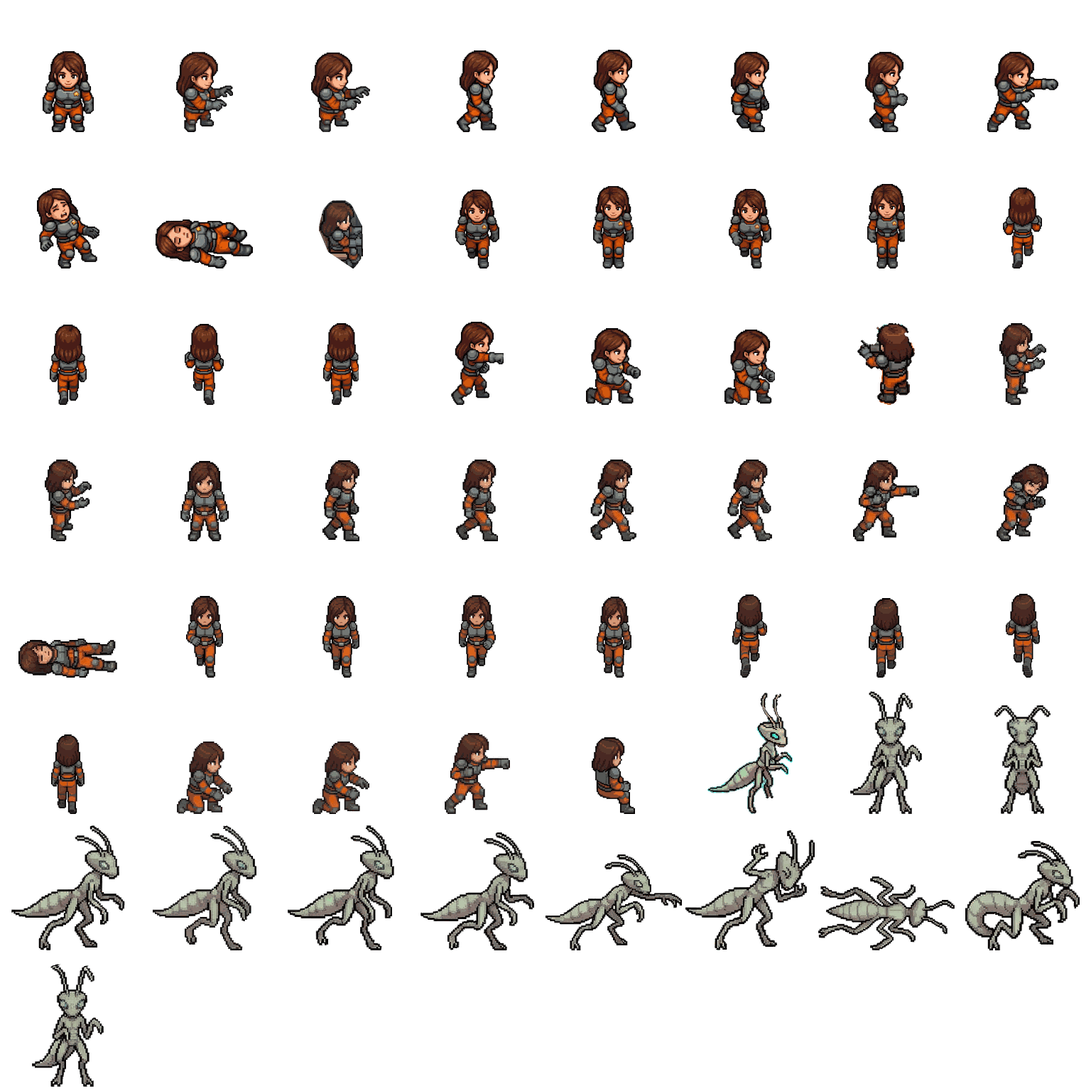
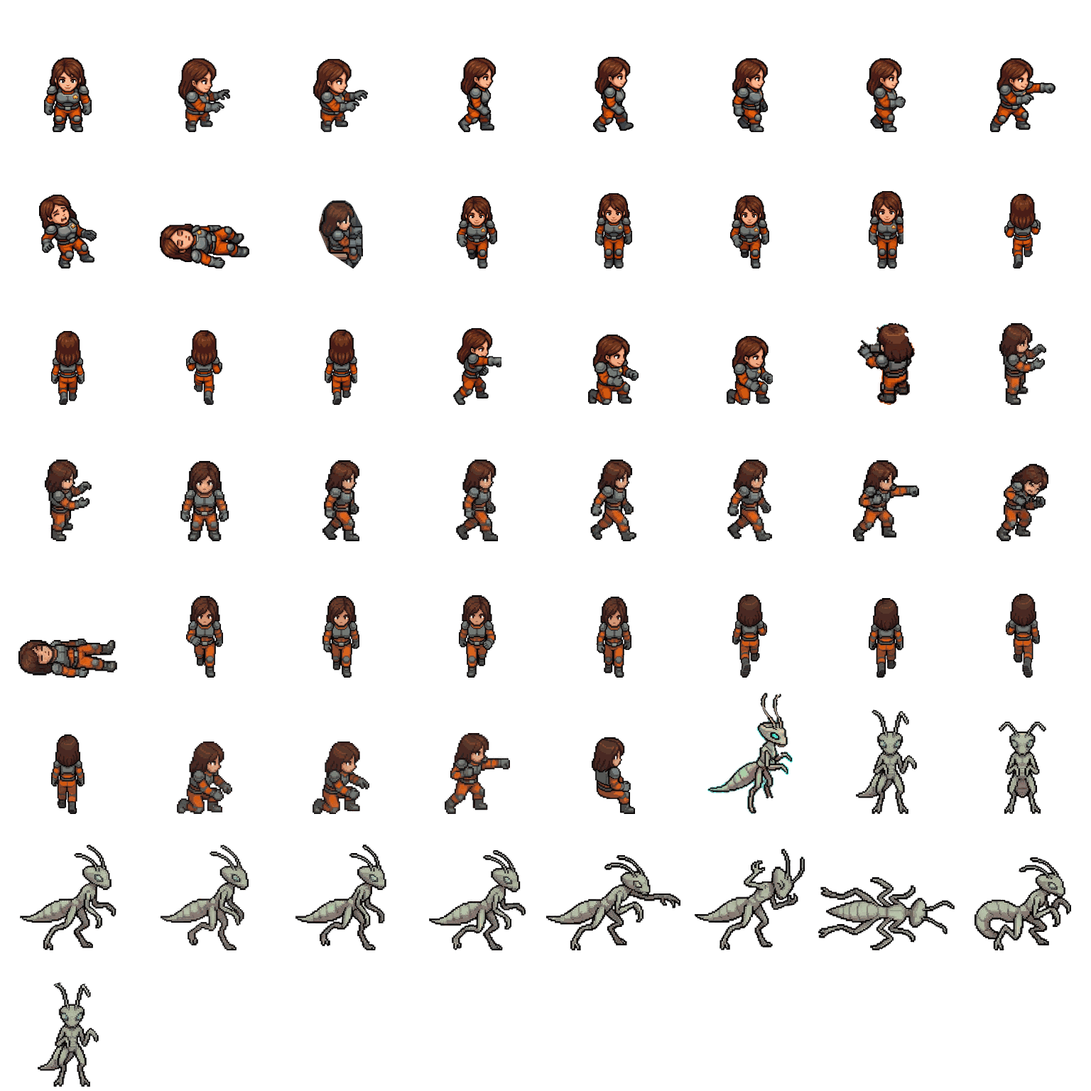
Game build 00ca104

diff --git a/index.html b/index.html
@@ -1397,6 +1397,14 @@ function update(dt){
   }
   if (!S.saidLow && S.you.hull > 0 && S.you.hull <= S.you.maxHull*0.3){ S.saidLow = true; barkAny("lowhull"); }
   if (S.you.sys.shields && S.you.layers === 0 && maxLayers(S.you) === 0 && S.t - S.saidShields > 25){ S.saidShields = S.t; barkAny("shieldsdown", c => c.on === "you"); }
+  // air running out where your crew stand: say so, and why, before anyone chokes (blind QA 2026-10-04: a whole crew
+  // suffocated on a ship with half its hull and nothing said why)
+  if (S.you.o2 && S.t - (S.saidAir || -99) > 20){
+    const low = S.you.crew.filter(c => c.hp > 0 && c.on === "you" && !SP(c).nobreath && (S.you.o2[c.room] ?? 100) < 35);
+    if (low.length){ S.saidAir = S.t; const ox = S.you.sys.oxygen, vented = Object.values(S.you.vent || {}).some(Boolean);
+      const why = vented ? "Close the vents (VENT)" : !ox ? "Get them to rooms with air" : eff(S.you, "oxygen") <= 0 ? (ox.dmg > 0 ? "OXYGEN is broken: send someone to repair it" : "Power OXYGEN on the left") : "Patch the breaches and keep OXYGEN powered";
+      setHint(`Air is running out where ${low.map(c => c.name).join(", ")} ${low.length > 1 ? "are" : "is"}. ${why}, or they will suffocate.`);
+      float(S.you, low[0].room, "LOW AIR", "#ff9bb0"); AUDIO.sfx("click"); } }
   clampPower(S.you); restorePower(S.you); clampPower(S.foe); autoPowerEnemy(S.foe);
   AUDIO.frame(S); // fire and breach loops, the low-hull alarm, the drive-ready chime, shields back up
   if (!S.over){
@@ -2701,7 +2709,7 @@ function frame(now){
     const fightNow = S && S.mode === "fight";
     if (STAGE.ok){ STAGE.resize(W, H); const ts = fightNow ? STAGE.tilt() : 1; if (Math.abs(ts - TS) > 1e-4){ TS = ts; layout(); } }
     const cineNow = STAGE.ok && fightNow && STAGE.inCine();
-    if (fightNow && !S.paused && !S.over && !cineNow) update(dt);
+    if (fightNow && !S.paused && !S.over && !cineNow) for (let k = DIAG.ff ? 8 : 1; k > 0 && !S.over; k--) update(dt);   // #debug fast-forward runs the fight 8x
     X.setTransform(DPR,0,0,DPR,0,0); X.clearRect(0,0,W,H);
     if (!STAGE.ok) drawNebula();
     const warp = S && S.warp > 0 ? S.warp : 0;
@@ -2876,10 +2884,13 @@ function buildDeck(){
 // the old fixed edge ran the vent hint under BOARD)
 function fitHint(){ const h = $("hint"), ar = document.querySelector(".actRow"); if (!h || !ar) return;
   if (!document.body.classList.contains("land") || !S || S.mode !== "fight" || !ar.offsetWidth){ if (h.style.right) h.style.right = ""; return; }
-  const box = stageRect(h.offsetParent || cv), a = stageRect(ar), r = Math.round(Math.max(8, box.left + box.width - a.left + 8)) + "px"; if (h.style.right !== r) h.style.right = r; }
+  // the hint ends left of the action buttons and, when there is one, left of the small ship's window and its name bar
+  // (a long briefing ran under the enemy's name, blind QA 2026-10-04)
+  const box = stageRect(h.offsetParent || cv), a = stageRect(ar), cvb = stageRect(cv), edge = Math.min(a.left, S.inset ? cvb.left + S.inset.x*cvb.width/W : Infinity),
+    r = Math.round(Math.max(8, box.left + box.width - edge + 8)) + "px"; if (h.style.right !== r) h.style.right = r; }
 function tickDeck(){
   if (!S || S.mode !== "fight") return;
-  { const ar = document.querySelector(".actRow"), k = (ar ? ar.offsetWidth : 0) + "," + W; if (k !== fitHint.k){ fitHint.k = k; fitHint(); } }
+  { const ar = document.querySelector(".actRow"), k = (ar ? ar.offsetWidth : 0) + "," + W + "," + (S.inset ? Math.round(S.inset.x) : ""); if (k !== fitHint.k){ fitHint.k = k; fitHint(); } }
   const you = S.you;
   you.weapons.forEach((w,i) => {
     const el = $("w"+i); if (!el) return;
@@ -2995,7 +3006,7 @@ function actJump(){ if (!S || S.over || S.you.ftl < 1) return;
 function showOffer(f, t){
   const el = $("offer"); if (!el) return;
   const what = [`${t.scrap} scrap`].concat(t.fuel ? [`${t.fuel} fuel`] : []).concat(t.missiles ? [`${t.missiles} missile${t.missiles > 1 ? "s" : ""}`] : []).join(", ");
-  $("offerText").textContent = `The ${f.name} signals surrender. They offer ${what} if you let them go. Fight on and you may take the wreck, or lose it if they run.`;
+  $("offerText").textContent = `The ${f.name} signals surrender. They offer ${what} if you let them go. ${f.flees ? "Fight on and they run: kill them before their drive spools (about 20 seconds) to take the wreck, or they get away with everything." : "Fight on and you can still take the wreck."}`;
   el.hidden = false; S.wasPausedOffer = S.paused; S.paused = true; tickDeck();
 }
 function closeOffer(){ const el = $("offer"); if (el) el.hidden = true; }
@@ -3701,8 +3712,56 @@ const RACE_ROW = {human: 0, tinker: 0, myrm: 1, basalt: 1, lumen: 2}, FRAME_COL 
 // drawn by the older atlas below. Frames: idle, walk1-4 (facing right; mirrored for left), walkd1-4 (toward the camera),
 // walku1-4 (away from it), op1-2 (op1s: a skin's side-view op1 where its op1 is a painted figure from another angle),
 // sit, link, fight + fight2 (a blow and its follow-through, alternating), hurt, down, repair + repair2 (kneeling at a panel).
-const CREW2 = {im: null, idx: null};
-(() => { const im = new Image(); im.onload = () => { fetch("art/crew_v2.json").then(r => r.ok ? r.json() : null).then(j => { if (!j || !j.skins) return; CREW2.im = im; CREW2.idx = j; SPRITES.clear(); PORTRAITS.clear(); if (S && S.mode === "fight") buildDeck(); }).catch(() => {}); }; im.src = "art/crew_v2.png"; })();
+// q: atlas pixels per crew_v2.json pixel. An iPad or a desktop draws the ship from the full-size painting
+// (hull_kestrel_hd.png), so it loads the crew at twice the pixels too (idx.hd, cut by tools/cut_crew.py): the crew then
+// have the painting's own pixel density instead of being blown up from the small cells (soft sprites on a sharp painting).
+const CREW2 = {im: null, idx: null, q: 1};
+(() => { const im = new Image(); im.onload = () => { fetch("art/crew_v2.json").then(r => r.ok ? r.json() : null).then(j => { if (!j || !j.skins) return; CREW2.im = im; CREW2.idx = j; CREW2.q = 1; SPRITES.clear(); PORTRAITS.clear(); if (S && S.mode === "fight") buildDeck();
+  if (j.hd && typeof UIK !== "undefined" && UIK > 1){ const hd = new Image(); hd.onload = () => { if (!hd.naturalWidth) return; CREW2.im = hd; CREW2.q = hd.naturalWidth/im.naturalWidth; SPRITES.clear(); }; hd.src = "art/" + j.hd; } }).catch(() => {}); }; im.src = "art/crew_v2.png"; })();
+// Grading (Michael, 2026-10-04: "the characters don't look fully a part of the scene"): the sheet frames were drawn in
+// their own Gemini chats, brighter, more contrasty and (the captain) more saturated than the same character as painted
+// in art-approved/01. Measured on the cut frames, figure pixels only (outline excluded), painted pose vs the sheet's:
+//   engineer  lightness .297 vs .32-.35, spread .111 vs .13-.14           -> exposure .93, contrast .85
+//   captain   lightness .318 vs .33-.37, spread .130 vs .155-.17, sat .34 vs .46-.50 -> .92, .82, .82
+//   Tesh      lightness .552 vs .50-.52, sat .22 vs .10-.12, painted greener -> exposure .97, colour as cut:
+//   her painted green and lightness are the shield room's cyan light on her (the game adds that itself); graded greener,
+//   blind QA saw her "a brighter mint green than the pale room" in the oxygen room
+// (part of the painted figures' cast is the room's light, which the game now adds on its own: crewLit below).
+// The painted poses are the painting's own pixels: never graded.
+const CREW_GRADE = {engineer: {exp: 0.93, con: 0.85, sat: 1, tint: [1, 1, 1]}, captain: {exp: 0.92, con: 0.82, sat: 0.82, tint: [1, 1, 1]},
+  tesh: {exp: 0.97, con: 1, sat: 1, tint: [1, 1, 1]}};
+// Edge softness (blind QA 2, 2026-10-04: on an iPad "the sprite stays sharp where the room is soft"). The approved painting
+// is soft-edged, and the game draws it softer still on a big screen (resampled into the deck texture, then by the stage).
+// Measured as fine-detail energy (|L - blur .7| / |L - blur 2.5|), figure against the room round it: the painting's own
+// crew read 1.08-1.11x their room (Tesh 1.25x); the sheet frames on a phone 0.96-1.11x (right); on an iPad 1.23-1.24x
+// (too crisp). So sheet frames from the 2x atlas get a gaussian of CREW_SOFT.hd atlas px (tools/qa/crew-blend.mjs re-measures).
+// 0.9 brought the iPad to 1.10-1.13x, but blind QA 3 still picked every iPad sprite as sharper than its room, so 1.3:
+// the phone's own figures (0.95-1.12x, judged painted) are the bar.
+const CREW_SOFT = {hd: 1.3, sd: 0}, CREW_RIM = 0;
+function crewSoften(cv, sig){
+  const w = cv.width, h = cv.height, x = cv.getContext("2d"), d = x.getImageData(0, 0, w, h), a = d.data, r = Math.ceil(sig*2.5), K = [];
+  let ks = 0; for (let i = -r; i <= r; i++){ const v = Math.exp(-i*i/(2*sig*sig)); K.push(v); ks += v; } for (let i = 0; i < K.length; i++) K[i] /= ks;
+  const f = new Float32Array(w*h*4), t = new Float32Array(w*h*4);
+  for (let p = 0; p < w*h; p++){ const al = a[p*4+3]/255; f[p*4] = a[p*4]*al; f[p*4+1] = a[p*4+1]*al; f[p*4+2] = a[p*4+2]*al; f[p*4+3] = a[p*4+3]; } // premultiplied
+  for (let y = 0; y < h; y++) for (let xx = 0; xx < w; xx++){ const o = (y*w + xx)*4; let c0 = 0, c1 = 0, c2 = 0, c3 = 0;
+    for (let i = -r; i <= r; i++){ const sx = Math.min(w - 1, Math.max(0, xx + i)), q = (y*w + sx)*4, k = K[i + r]; c0 += f[q]*k; c1 += f[q+1]*k; c2 += f[q+2]*k; c3 += f[q+3]*k; }
+    t[o] = c0; t[o+1] = c1; t[o+2] = c2; t[o+3] = c3; }
+  for (let y = 0; y < h; y++) for (let xx = 0; xx < w; xx++){ const o = (y*w + xx)*4; let c0 = 0, c1 = 0, c2 = 0, c3 = 0;
+    for (let i = -r; i <= r; i++){ const sy = Math.min(h - 1, Math.max(0, y + i)), q = (sy*w + xx)*4, k = K[i + r]; c0 += t[q]*k; c1 += t[q+1]*k; c2 += t[q+2]*k; c3 += t[q+3]*k; }
+    const al = c3/255; a[o] = al > 0 ? c0/al : 0; a[o+1] = al > 0 ? c1/al : 0; a[o+2] = al > 0 ? c2/al : 0; a[o+3] = c3; }
+  x.putImageData(d, 0, 0);
+}
+function crewGrade(cv, g){
+  const x = cv.getContext("2d"), d = x.getImageData(0, 0, cv.width, cv.height), a = d.data; let n = 0, sum = 0;
+  for (let i = 0; i < a.length; i += 4) if (a[i+3] > 200){ const L = (a[i]*0.299 + a[i+1]*0.587 + a[i+2]*0.114)/255; if (L >= 0.16){ sum += L; n++; } }
+  const mid = n ? sum/n : 0.35;
+  for (let i = 0; i < a.length; i += 4){ if (!a[i+3]) continue; let r = a[i]/255, gg = a[i+1]/255, b = a[i+2]/255; const L = r*0.299 + gg*0.587 + b*0.114;
+    if (L < 0.16){ const k = g.exp; a[i] = r*k*255; a[i+1] = gg*k*255; a[i+2] = b*k*255; continue; } // the outline keeps its weight
+    const L2 = (mid + (L - mid)*g.con)*g.exp, s = L > 1e-3 ? L2/L : 1; r *= s; gg *= s; b *= s; // exposure and contrast on lightness, hue kept
+    const m = r*0.299 + gg*0.587 + b*0.114; r = m + (r - m)*g.sat; gg = m + (gg - m)*g.sat; b = m + (b - m)*g.sat;
+    a[i] = Math.min(255, r*g.tint[0]*255); a[i+1] = Math.min(255, gg*g.tint[1]*255); a[i+2] = Math.min(255, b*g.tint[2]*255); }
+  x.putImageData(d, 0, 0);
+}
 const CREW2_FALLBACK = {walk1: ["walk1", "walk3"], walk2: ["walk2", "walk3", "walk1"], walk3: ["walk3", "walk1"], walk4: ["walk4", "walk2", "walk1"], fight: ["fight", "op1"], fight2: ["fight2", "fight", "op1"], work: ["repair", "op1"], repair2: ["repair2", "repair", "op1"], op1: ["op1"], op2: ["op2", "op1"], op1s: ["op1s", "op2", "op1"],
   walkd1: ["walkd1", "walk1"], walkd2: ["walkd2", "walk2", "walk1"], walkd3: ["walkd3", "walk3", "walk1"], walkd4: ["walkd4", "walk4", "walk1"],
   walku1: ["walku1", "walk1"], walku2: ["walku2", "walk2", "walk1"], walku3: ["walku3", "walk3", "walk1"], walku4: ["walku4", "walk4", "walk1"], sit: ["sit", "op1"], link: ["link", "op1"], down: ["down"], hurt: ["hurt"]};
@@ -3718,7 +3777,10 @@ function crewPaintedHere(c, frame, ship){ if (!crewPainted(c, frame)) return fal
 function crewSprite(c, frame){
   const f2 = crewFrame2(c, frame);
   if (f2){ const key = `v2|${f2[0]}|${f2[1]}`; if (SPRITES.has(key)) return SPRITES.get(key);
-    const r = f2[2], cv = document.createElement("canvas"); cv.width = cv.height = r[2]; cv.square = true; cv.getContext("2d").drawImage(CREW2.im, r[0], r[1], r[2], r[3], 0, 0, r[2], r[3]);
+    const q = CREW2.q || 1, r = f2[2].map(v => Math.round(v*q)), cv = document.createElement("canvas"); cv.width = cv.height = r[2]; cv.square = true; cv.getContext("2d").drawImage(CREW2.im, r[0], r[1], r[2], r[3], 0, 0, r[2], r[3]);
+    const painted = (CREW2.idx.skins[f2[0]].painted || []).includes(f2[1]), g = CREW_GRADE[f2[0]];
+    if (g && !painted) try { crewGrade(cv, g); } catch {} // (a canvas that can't be read stays as cut)
+    const soft = !painted && (q > 1 ? CREW_SOFT.hd : CREW_SOFT.sd); if (soft > 0) try { crewSoften(cv, soft); } catch {}
     SPRITES.set(key, cv); return cv; }
   if (CREW_ATLAS.complete && CREW_ATLAS.naturalWidth){
     const key = `atlas|${c.species}|${frame}`; if (SPRITES.has(key)) return SPRITES.get(key);
@@ -4160,12 +4222,85 @@ function whiteOf(spr){ let w = WHITE_SPR.get(spr); if (w) return w;
   g.drawImage(spr, 0, 0); g.globalCompositeOperation = "source-in"; g.fillStyle = "#fff"; g.fillRect(0, 0, w.width, w.height); WHITE_SPR.set(spr, w); return w; }
 const CREW_SHADOW = (() => { const c = document.createElement("canvas"); c.width = 48; c.height = 24; const g = c.getContext("2d"), r = g.createRadialGradient(24, 12, 1, 24, 12, 24);
   r.addColorStop(0, "rgba(0,0,0,.6)"); r.addColorStop(1, "rgba(0,0,0,0)"); g.setTransform(1, 0, 0, 0.5, 0, 0); g.fillStyle = r; g.fillRect(0, 0, 48, 48); return c; })();
+// ---- the crew in the painting (Michael, 2026-10-04: "The characters don't look fully a part of the scene", "It looks odd
+// and not pro"). The painting's crew share its light, its pixels and its floor; these give the game's crew the same.
+function blobFall(u){ return u >= 1 ? 0 : u < 0.4 ? 1 - u/0.4*0.5 : 0.5*(1 - (u - 0.4)/0.6); } // kitBlob's radial stops: 1, .5 at 0.4, 0 at the edge
+// the light at a point of a kit ship (its painting's px), as kitLightMap paints it on the floor there: the room's ambient
+// (dim when unpowered, red on alert), its ceiling lamp, its machine's light in the system's colour, fire. 0..1 per channel.
+function kitLightAt(ship, sh, id, hx, hy, t){
+  const b = sh.bbs[id]; if (!b) return null;
+  hx = clamp(hx, b[0], b[0] + b[2]); hy = clamp(hy, b[1], b[1] + b[3]); // (lights are clipped to the room: a head over the wall is lit as the room is)
+  const s = ship.sys[id], kt = sh.kit[id], hz = ship.hz && ship.hz[id], pa = sh.kd && sh.kd.painted, alert = kitAlert(ship), red = 0.5 + 0.5*Math.sin(t*6.3);
+  const pw = s && s.level ? (ship.you ? eff(ship, id) : cap(ship, id)) : 1, cons = id === "pilot" || id === "doors" || id === "sensors";
+  const off = s && s.level && (cons ? s.dmg >= s.level : pw <= 0);
+  const L = alert ? [(pa ? 170 : 120) + 40*red, (pa ? 80 : 44) - 10*red, (pa ? 86 : 50) - 10*red] : off ? (pa ? [96, 99, 112] : [34, 37, 48]) : (pa ? [206, 206, 210] : [58, 63, 80]);
+  const add = (rgb, a) => { for (let i = 0; i < 3; i++) L[i] += rgb[i]*a; };
+  const lr = Math.max(b[2], b[3])*0.7; add([112, 106, 96], (s && s.level && pw <= 0 && !cons ? 0.25 : 0.5)*blobFall(Math.hypot(hx - b[0] - b[2]/2, hy - b[1] - b[3]/2)/lr));
+  const lp = (ship._lp || {})[id] || 0, m = kt && kt.mach;
+  if (s && m && lp > 0.01) add(SYS_RGB[id] || [200, 200, 200], clamp(lp*1.15, 0, 1)*blobFall(Math.hypot(hx - m[0] - m[2]/2, hy - m[1] - m[3]/2)/(sh.cell*1.7)));
+  if (hz && hz.fire > 0) add([255, 130, 40], clamp((0.7 + 0.2*Math.sin(t*13 + b[0]))*(0.5 + hz.fire/200), 0, 1)*blobFall(Math.hypot(hx - b[0] - b[2]/2, hy - b[1] - b[3]*0.6)/(sh.cell*1.3)));
+  return L.map(v => clamp(v, 0, 255)/255);
+}
+// a crew member's light: the room's light at their left and right side (chest high) and the edge light they catch
+function crewLight(ship, sh, ca, c, sx, feet, Z, t, rim){
+  if (KIT_LIT.tier < 0) return null; // the bare painting (side-by-side checks)
+  const id = typeof crewRoomNow === "function" ? crewRoomNow(ship, c) : c.room, hx = (sx - ca.x)/ca.s, hy = (feet - Z*0.33 - ca.y)/ca.s, d = Z*0.2/ca.s;
+  if (KIT_LIT.tier === 0){ const s = ship.sys[id], off = s && s.level && (ship.you ? eff(ship, id) : cap(ship, id)) <= 0 && id !== "pilot"; return off ? {l: [0.6, 0.6, 0.62], r: [0.6, 0.6, 0.62]} : null; }
+  const l = kitLightAt(ship, sh, id, hx - d, hy, t), r = kitLightAt(ship, sh, id, hx + d, hy, t); if (!l || !r) return null;
+  const out = {l, r, rim: null}; if (!rim) return out;
+  // the edge light: the room's machine light when it is near and on (cyan by the shields, orange by the engines), else the lamp
+  const kt = sh.kit[id], m = kt && kt.mach, lp = (ship._lp || {})[id] || 0;
+  const mf = m && lp > 0.05 ? clamp(lp, 0, 1)*blobFall(Math.hypot(hx - m[0] - m[2]/2, hy - m[1] - m[3]/2)/(sh.cell*1.9)) : 0;
+  out.rim = mf > 0.08 ? {rgb: SYS_RGB[id] || [220, 220, 220], a: 0.1 + 0.3*mf} : {rgb: [255, 236, 205], a: 0.12*Math.max(l[0], r[0])};
+  return out;
+}
+// the figure's lit edge (one art pixel inside its outline, on the side the light comes from: top left on screen, so top
+// right in a sprite drawn mirrored), white; tinted per light colour and cached
+const RIM = new WeakMap();
+function crewRimMask(spr, left){
+  let e = RIM.get(spr); if (!e) RIM.set(spr, e = {tint: new Map()});
+  const k = left ? "l" : "r"; if (e[k]) return e[k];
+  const w = spr.width, h = spr.height, d = spr.getContext("2d").getImageData(0, 0, w, h).data, o = document.createElement("canvas"); o.width = w; o.height = h;
+  const ox = o.getContext("2d"), od = ox.createImageData(w, h), A = od.data, st = Math.max(2, Math.round(w/80)), dx = left ? -st : st;
+  const al = (x, y) => x < 0 || y < 0 || x >= w || y >= h ? 0 : d[(y*w + x)*4 + 3];
+  for (let y = 0; y < h; y++) for (let x = 0; x < w; x++){ const i = (y*w + x)*4; if (d[i+3] < 200) continue;
+    if ((d[i]*0.299 + d[i+1]*0.587 + d[i+2]*0.114)/255 < 0.16) continue; // the outline stays dark
+    const up = al(x, y - 2*st) < 90, side = al(x + 2*dx, y) < 90, diag = al(x + 2*dx, y - 2*st) < 90;
+    const v = up && side ? 1 : diag ? 0.8 : up ? 0.6 : side ? 0.45 : 0; if (!v) continue;
+    A[i] = A[i+1] = A[i+2] = 255; A[i+3] = Math.round(255*v); }
+  ox.putImageData(od, 0, 0); return e[k] = o;
+}
+function crewRimTint(spr, left, rgb){
+  const e = RIM.get(spr) || (crewRimMask(spr, left), RIM.get(spr)), key = (left ? "l" : "r") + rgb.join(","); let c = e.tint.get(key); if (c) return c;
+  const m = crewRimMask(spr, left); c = document.createElement("canvas"); c.width = m.width; c.height = m.height; const x = c.getContext("2d");
+  x.drawImage(m, 0, 0); x.globalCompositeOperation = "source-in"; x.fillStyle = `rgb(${rgb.join(",")})`; x.fillRect(0, 0, c.width, c.height); e.tint.set(key, c); return c;
+}
+// the figure under its light: multiplied by the room's light from its left side to its right (as the floor under it is
+// by the light map), then its lit edge added. One scratch canvas, drawn from at once.
+const CREW_LIT = {c: null};
+function crewLit(spr, L, flip){
+  const c = CREW_LIT.c || (CREW_LIT.c = document.createElement("canvas"));
+  if (c.width !== spr.width || c.height !== spr.height){ c.width = spr.width; c.height = spr.height; }
+  const x = c.getContext("2d"), [a, b] = flip ? [L.r, L.l] : [L.l, L.r], css = v => `rgb(${Math.round(v[0]*255)},${Math.round(v[1]*255)},${Math.round(v[2]*255)})`;
+  x.globalAlpha = 1; x.globalCompositeOperation = "source-over"; x.clearRect(0, 0, c.width, c.height); x.drawImage(spr, 0, 0);
+  x.globalCompositeOperation = "multiply"; const g = x.createLinearGradient(c.width*0.3, 0, c.width*0.7, 0); g.addColorStop(0, css(a)); g.addColorStop(1, css(b)); x.fillStyle = g; x.fillRect(0, 0, c.width, c.height);
+  x.globalCompositeOperation = "destination-in"; x.drawImage(spr, 0, 0);
+  if (L.rim && L.rim.a > 0.02){ x.globalCompositeOperation = "lighter"; x.globalAlpha = Math.min(1, L.rim.a); x.drawImage(crewRimTint(spr, !flip, L.rim.rgb), 0, 0); }
+  x.globalCompositeOperation = "source-over"; x.globalAlpha = 1; return c;
+}
+// where a figure meets the floor: the span of its lowest rows (cell fractions)
+const FOOT = new WeakMap();
+function crewFoot(spr){ let f = FOOT.get(spr); if (f) return f;
+  const w = spr.width, h = spr.height, d = spr.getContext("2d").getImageData(0, 0, w, h).data; let bot = -1;
+  for (let y = h - 1; y >= 0 && bot < 0; y--) for (let x = 0; x < w; x++) if (d[(y*w + x)*4 + 3] > 120){ bot = y; break; }
+  let x0 = w, x1 = -1; for (let y = Math.max(0, bot - Math.round(h*0.08)); y <= bot; y++) for (let x = 0; x < w; x++) if (d[(y*w + x)*4 + 3] > 120){ if (x < x0) x0 = x; if (x > x1) x1 = x; }
+  f = x1 < 0 ? {c: 0.5, w: 0.2} : {c: (x0 + x1 + 1)/2/w, w: (x1 - x0 + 1)/w}; FOOT.set(spr, f); return f; }
 function drawCrew(ship, g){
   const t = performance.now()/1000, now = performance.now();
   const live = S && !S.paused && !S.over, sh = ship.cut && ship.cut.kit && SHAPED[ship.cut.art], ca0 = sh && cutArt(ship);
   const cs = sh && sh.kd.crew && ca0 ? sh.kd.crew*ca0.s : ship.cut ? g.cell : g.cell*0.63; // one crew tile on screen (a painted ship sets its own)
-  for (const c of allCrew()){
-    if (c.on !== ship.key || c.gx == null) continue;
+  // back to front (feet higher on the screen first), so whoever stands nearer the camera overlaps whoever is behind them
+  for (const c of allCrew().filter(c => c.on === ship.key && c.gx != null).sort((a, b) => a.gy - b.gy)){
     if (c._fight !== S){ c._fight = S; c._tpAt = S.t > 0.5 && c.hp > 0 ? now : 0; c._deadAt = c.hp > 0 ? 0 : -1e9; } // new aboard mid-fight: they beamed in
     if (c.hp <= 0 && !c._deadAt) c._deadAt = now;
     if (c.hp <= 0 && now - c._deadAt > 1600) continue;
@@ -4208,13 +4343,6 @@ function drawCrew(ship, g){
     else if (!dead && c.act === "man" && sh){ const kt = sh.kit[c.room]; if (kt && kt.gc){ const dx = (kt.gc[0] - c.gx)*(ship.you ? 1 : -1); if (Math.abs(dx) > 0.2){ ox += Math.sign(dx)*cs*0.07; flip = dx < 0; } oy += Math.sin(t*9 + c.seed)*cs*0.006; } }
     else if (!dead && c.act === "idle" && Math.sin(t*0.7 + (c.seed % 13)) > 0.93) flip = !flip; // a glance about
     const breath = !dead && (st || c.act === "idle" || c.act === "man") ? 1 + 0.012*Math.sin(t*2.3 + seed*6.3) : 1; // the operating loop: they breathe, they don't freeze
-    // soft shadow, away from the room's light on a kit ship
-    const so = sh ? kitShadow(ship, c, cs, p) : [cs*0.06, cs*0.05], lift = Math.max(0, -oy/cs);
-    if (!asPainted){ X.save(); X.globalAlpha = dead ? Math.max(0, 1 - (now - c._deadAt)/1600) : 1 - lift*4; // (a painted figure brings its own shadow)
-      X.drawImage(CREW_SHADOW, p.x + so[0] - cs*0.3, feet + so[1] - cs*0.12, cs*0.6*(1 - lift*2), cs*0.24); X.restore(); }
-    if (!mine && !dead){ X.strokeStyle = "rgba(255,90,70,.85)"; X.lineWidth = 2; X.beginPath(); X.ellipse(p.x, feet - cs*0.02, cs*0.3, cs*0.11, 0, 0, 6.283); X.stroke(); } // their crew: a red ring at the feet
-    if (SP(c).powers && !dead){ const gl = X.createRadialGradient(p.x, feet - cs*0.5, 0, p.x, feet - cs*0.5, cs*0.7); gl.addColorStop(0, "rgba(255,240,170,.4)"); gl.addColorStop(1, "rgba(255,240,170,0)"); X.fillStyle = gl; X.fillRect(p.x - cs, feet - cs*1.2, cs*2, cs*1.4); }
-    if (mine && S.selC === S.you.crew.indexOf(c)){ X.strokeStyle = "#ffc857"; X.lineWidth = 2; X.beginPath(); X.ellipse(p.x, feet - cs*0.02, cs*0.34, cs*0.12, 0, 0, 6.283); X.stroke(); }
     // walking up or down the screen: the toward-camera / away frames (with some give, so a diagonal doesn't flicker between views)
     if (c.act === "walk"){ const vy = Math.sin(c.face || 0), vx = Math.abs(Math.cos(c.face || 0)); c._vert = c._vert ? (Math.abs(vy) > vx*0.8 ? (vy > 0 ? "d" : "u") : "") : (Math.abs(vy) > vx*1.25 ? (vy > 0 ? "d" : "u") : ""); }
     const wv = v2 && c._vert && crewHas(c, "walk" + c._vert + "1") ? "walk" + c._vert : "walk";
@@ -4222,34 +4350,62 @@ function drawCrew(ship, g){
     const frame = dead ? (crewHas(c, "down") ? "down" : "idle") : hurt ? "hurt" : foe ? (strike ? ((c._blows || 0) % 2 === 0 ? "fight2" : "fight") : "idle") : opF || (c.act === "walk" ? walkF : crewFrame(c)); // a fighter strikes in the lunge, stands guard between
     const spr = crewSprite(c, frame);
     c._frame = frame; c._flip = flip; // (read by the frame-strip QA)
+    const sitting = !dead && !asPainted && opF === "sit" && crewHas(c, "sit"); // seated, seen from above and behind, facing the way the seat faces (as the painted captain sits)
+    const seatedNoFrame = !dead && !asPainted && opF === "sit" && !crewHas(c, "sit") && spr.square; // (an enemy's: sunk into the painted seat)
+    const dflip = asPainted ? false : sitting ? Math.cos(st.face*Math.PI/180) < -0.2 : flip; // how the sprite is drawn
+    // grounded (docs/LIGHTING.md 2.3): a contact shadow as wide as what stands on the floor, tight and dark at the feet, and
+    // a softer one cast down and to the right (the light is top left; away from a lit machine in its room). A painted
+    // figure at its own station brings its own shadow from the painting.
+    const so = sh ? kitShadow(ship, c, cs, p) : [cs*0.06, cs*0.05], lift = Math.max(0, -oy/cs);
+    if (!asPainted && !sitting && !seatedNoFrame && spr.square){ const fp = crewFoot(spr), fw = Math.max(Z*0.12, fp.w*Z*1.08)*(1 - lift*2), fx = p.x + ox + (fp.c - 0.5)*Z*(dflip ? -1 : 1);
+      X.save(); X.globalAlpha = (dead ? Math.max(0, 1 - (now - c._deadAt)/1600) : 1)*Math.max(0, 1 - lift*4);
+      X.globalAlpha *= 0.6; X.drawImage(CREW_SHADOW, fx + so[0]*0.6 - fw*0.62, feet + so[1]*0.6 - fw*0.2, fw*1.24, fw*0.4); // cast
+      X.globalAlpha /= 0.6; X.drawImage(CREW_SHADOW, fx - fw*0.5, feet - fw*0.13, fw, fw*0.26); X.restore(); } // contact
+    if (!mine && !dead){ X.strokeStyle = "rgba(255,90,70,.85)"; X.lineWidth = 2; X.beginPath(); X.ellipse(p.x, feet - cs*0.02, cs*0.3, cs*0.11, 0, 0, 6.283); X.stroke(); } // their crew: a red ring at the feet
+    if (SP(c).powers && !dead){ const gl = X.createRadialGradient(p.x, feet - cs*0.5, 0, p.x, feet - cs*0.5, cs*0.7); gl.addColorStop(0, "rgba(255,240,170,.4)"); gl.addColorStop(1, "rgba(255,240,170,0)"); X.fillStyle = gl; X.fillRect(p.x - cs, feet - cs*1.2, cs*2, cs*1.4); }
+    if (mine && S.selC === S.you.crew.indexOf(c)){ X.strokeStyle = "#ffc857"; X.lineWidth = 2; X.beginPath(); X.ellipse(p.x, feet - cs*0.02, cs*0.34, cs*0.12, 0, 0, 6.283); X.stroke(); }
+    // turning, changing what they do, or a console's two frames ease into each other (no hard pop); walk, fight and repair
+    // frames are cycles and stay crisp
+    const fam = frame.replace(/^walk[du]?\d$/, "walk").replace(/^op(1s|\d)$/, "op").replace(/^(fight2?|repair2?)$/, "$1").replace(/2$/, "");
+    const was = c._drawn, cyc_ = fam === "walk" || fam === "fight" || fam === "repair";
+    if (was && !dead && (was.fam !== fam || (!cyc_ && (was.spr !== spr || was.flip !== dflip)))) c._xf = {spr: was.spr, flip: was.flip, at: now};
+    c._drawn = {spr, fam, flip: dflip};
     X.save(); X.imageSmoothingEnabled = true; X.imageSmoothingQuality = "high"; // the 128 px figures are drawn smaller: smooth, not jagged
-    if (c.grief > 0) X.globalAlpha = 0.8;
+    const ga = c.grief > 0 ? 0.8 : 1;
     const tp = c._tpAt ? (now - c._tpAt)/450 : 1; // beaming in: a light column, the figure revealed top down
     if (tp < 1){ X.save(); X.globalCompositeOperation = "lighter"; const hgt = Math.sin(tp*Math.PI)*cs*1.3; X.fillStyle = `rgba(150,230,255,${0.75*Math.sin(tp*Math.PI)})`; X.fillRect(p.x - cs*0.22, feet - hgt, cs*0.44, hgt); X.restore();
       X.beginPath(); X.rect(p.x - Z, feet - Z*1.1, Z*2, Z*1.1*tp + 1); X.clip(); }
-    if (dead){ const k = Math.min(1, (now - c._deadAt)/300); X.globalAlpha = Math.max(0, 1 - Math.max(0, now - c._deadAt - 700)/900);
-      if (crewHas(c, "down")){ X.translate(p.x, feet); if (flip) X.scale(-1, 1); X.drawImage(spr, -Z/2, -Z*0.97, Z, Z); } // the sheet's own fall
-      else { X.translate(p.x, feet - cs*0.1); X.rotate((flip ? -1 : 1)*k*Math.PI/2); X.translate(0, -Z*0.45); if (flip) X.scale(-1, 1); X.drawImage(spr, -Z/2, -Z*0.52, Z, Z); } }
-    else if (asPainted){ X.translate(p.x, feet); X.scale(1, breath); X.drawImage(spr, -Z/2, -Z*0.97, Z, Z); }
-    else if (opF === "sit" && crewHas(c, "sit")){ X.translate(p.x, feet); if (Math.cos(st.face*Math.PI/180) < -0.2) X.scale(-1, 1); X.scale(1, breath); X.drawImage(spr, -Z/2, -Z*0.97, Z, Z); } // seated, seen from above and behind, facing the way the seat faces (as the painted captain sits)
-    else if (opF === "sit" && spr.square){ // seated, for a figure with no sit frame (an enemy's): down in the painted seat, the seat point at the
-      // hips, the legs out of sight below them, facing the way the seat faces (the raider's pilot, as in art-approved/08)
-      X.beginPath(); X.rect(p.x - Z, feet - Z*1.2, Z*2, Z*1.2); X.clip();
-      X.translate(p.x, feet + Z*0.38); if (flip) X.scale(-1, 1); X.scale(1, breath); X.drawImage(spr, -Z/2, -Z*0.97, Z, Z); }
-    else if (spr.square){ X.translate(p.x + ox, feet + oy); if (flip) X.scale(-1, 1); X.scale(1, breath); X.drawImage(spr, -Z/2, -Z*0.97, Z, Z);
+    // in the room's light, as the floor under them is (crewLight / crewLit): a painted figure gets the same light as the
+    // painting round it, so the two stay as painted. (The edge light, CREW_RIM, is off: the painting's crew have none, and
+    // blind QA 3 read it as a halo: "a cyan rim", "a green fringe along the hair", "light pixels round the gloves".)
+    const LT = spr.square && sh && ca0 ? crewLight(ship, sh, ca0, c, p.x + ox, feet, Z, t, !asPainted && CREW_RIM > 0) : null;
+    const put = (s0, fl, a) => { X.globalAlpha = a; X.drawImage(LT ? crewLit(s0, LT, fl) : s0, -Z/2, -Z*0.97, Z, Z); };
+    if (dead){ const k = Math.min(1, (now - c._deadAt)/300), a = ga*Math.max(0, 1 - Math.max(0, now - c._deadAt - 700)/900);
+      if (crewHas(c, "down")){ X.translate(p.x, feet); if (flip) X.scale(-1, 1); put(spr, flip, a); } // the sheet's own fall
+      else { X.translate(p.x, feet - cs*0.1); X.rotate((flip ? -1 : 1)*k*Math.PI/2); X.translate(0, -Z*0.45); if (flip) X.scale(-1, 1); X.globalAlpha = a; X.drawImage(spr, -Z/2, -Z*0.52, Z, Z); } }
+    else if (spr.square){ const still = asPainted || sitting || seatedNoFrame;
+      // seated, for a figure with no sit frame (an enemy's): down in the painted seat, the seat point at the hips, the legs
+      // out of sight below them, facing the way the seat faces (the raider's pilot, as in art-approved/08)
+      if (seatedNoFrame){ X.beginPath(); X.rect(p.x - Z, feet - Z*1.2, Z*2, Z*1.2); X.clip(); X.translate(0, Z*0.38); }
+      X.translate(p.x + (still ? 0 : ox), feet + (still ? 0 : oy)); if (dflip) X.scale(-1, 1); X.scale(1, breath);
+      put(spr, dflip, ga);
+      const xf = c._xf, xk = xf ? (now - xf.at)/160 : 1;
+      if (xf && xk < 1){ X.save(); if (xf.flip !== dflip) X.scale(-1, 1); put(xf.spr, xf.flip, ga*(1 - xk)); X.restore(); } else c._xf = null;
       if (c._flashAt && now - c._flashAt < 90){ X.globalAlpha = 0.35; X.drawImage(whiteOf(spr), -Z/2, -Z*0.97, Z, Z); } }
-    else { const w = cs*0.7, hh = cs*0.92; X.translate(p.x + ox, feet + oy); if (flip) X.scale(-1, 1); X.drawImage(spr, -w/2, -hh, w, hh);
+    else { const w = cs*0.7, hh = cs*0.92; X.globalAlpha = ga; X.translate(p.x + ox, feet + oy); if (flip) X.scale(-1, 1); X.drawImage(spr, -w/2, -hh, w, hh);
       if (c._flashAt && now - c._flashAt < 90){ X.globalAlpha = 0.35; X.drawImage(whiteOf(spr), -w/2, -hh, w, hh); } }
     X.restore();
     if (dead) continue;
     if (c.mindLink && c.act === "man" && sh && (opF === "link" || (opF && opF.startsWith("op")))){ const kt = sh.kit[c.room], ca = cutArt(ship); // the queen works the console by mind: antennae aglow, a violet thread to it
       const tip = spriteTips(spr), pulse = 0.6 + 0.3*Math.sin(t*4 + c.seed), hx = p.x + (tip.x - 0.5)*Z, hy = feet - (0.97 - tip.y)*Z;
       X.save(); X.globalCompositeOperation = "lighter";
-      for (const ax of [tip.x0, tip.x1]){ const gx = p.x + (ax - 0.5)*Z, r = cs*0.16*(0.8 + 0.3*pulse), gl = X.createRadialGradient(gx, hy, 0, gx, hy, r);
-        gl.addColorStop(0, `rgba(225,190,255,${0.8*pulse})`); gl.addColorStop(1, "rgba(200,150,255,0)"); X.fillStyle = gl; X.fillRect(gx - r, hy - r, r*2, r*2); }
+      for (const ax of [tip.x0, tip.x1]){ const gx = p.x + (ax - 0.5)*Z, r = cs*0.11*(0.8 + 0.3*pulse), gl = X.createRadialGradient(gx, hy, 0, gx, hy, r);
+        gl.addColorStop(0, `rgba(225,190,255,${0.3*pulse})`); gl.addColorStop(1, "rgba(200,150,255,0)"); X.fillStyle = gl; X.fillRect(gx - r, hy - r, r*2, r*2); }
       if (kt && kt.mach && ca){ const mx = ca.x + (kt.mach[0] + kt.mach[2]/2)*ca.s, my = ca.y + (kt.mach[1] + kt.mach[3]/2)*ca.s;
-        X.strokeStyle = `rgba(200,150,255,${pulse})`; X.lineWidth = Math.max(1.5, cs*0.05); X.setLineDash([cs*0.06, cs*0.05]); X.lineDashOffset = -t*cs*0.3;
-        X.beginPath(); X.moveTo(hx, hy); X.quadraticCurveTo((hx + mx)/2, Math.min(hy, my) - cs*0.35, mx, my); X.stroke(); }
+        // a faint thread with soft beads running along it (blind QA, 2026-10-04: square dashes read as pasted-on squares)
+        const arc = () => { X.beginPath(); X.moveTo(hx, hy); X.quadraticCurveTo((hx + mx)/2, Math.min(hy, my) - cs*0.35, mx, my); };
+        X.lineCap = "round"; X.strokeStyle = `rgba(200,150,255,${0.12*pulse})`; X.lineWidth = Math.max(1, cs*0.02); arc(); X.stroke();
+        X.strokeStyle = `rgba(215,175,255,${0.4*pulse})`; X.lineWidth = Math.max(1, cs*0.026); X.setLineDash([0.01, cs*0.09]); X.lineDashOffset = -t*cs*0.3; arc(); X.stroke(); }
       X.restore(); }
     const bw = cs*0.5, by = feet + 2; // health shows on the hurt and the fighting
     if (c.hp < c.maxHp || c.act === "fight"){ X.fillStyle = "#26324a"; X.fillRect(p.x - bw/2, by, bw, 2.5);
@@ -4402,7 +4558,8 @@ function buildKitPainted(ship, kd, hs, R){
   const cw = c.width, al = x.getImageData(0, 0, cw, c.height).data, rowR = new Float32Array(h);
   for (let yy = 0; yy < h; yy++){ const row = Math.min(c.height - 1, Math.floor(yy*q)); let r = -1; for (let xx = cw - 1; xx >= 0; xx--) if (al[(row*cw + xx)*4 + 3] > 60){ r = xx/q; break; } rowR[yy] = r; }
   const hatches = (R.hatches || []).filter(t => polys[lid[t.a]] && polys[lid[t.b]]).map(t => ({a: lid[t.a], b: lid[t.b], x: fx(t.x)}));
-  return {c, w, h, q, ready: true, rooms, paths, bbs, kit, cell, hb, doors, rowR, polys, hatches, kd: {painted: true, crew: kd.crew, tile, flip, w, cell}, nest: R.nest};
+  const blocks = (R.blocks || []).map(([bx, by, bw, bh]) => [flip ? w - bx - bw : bx, by, bw, bh]); // painted furniture crew never stand in
+  return {c, w, h, q, ready: true, rooms, paths, bbs, kit, cell, hb, doors, rowR, polys, hatches, blocks, kd: {painted: true, crew: kd.crew, tile, flip, w, cell}, nest: R.nest};
 }
 // the station a crew member is working at: whoever holds it (src/crewnav.js navHolder, the first crew member headed
 // there who can work it), once they have walked onto its spot and stopped (idle at their post when a fight opens paused)
@@ -4502,8 +4659,8 @@ function buildKit(ship, kd, hs, dm){
    over the deck: each room has a dark ambient, a ceiling lamp, its machine's light in the system's colour
    (pulsing with the machine, scaled by power, dropping out when damaged) and fire light, all clipped to the
    room so no light leaks through walls. A red-alert ambient pulses when the hull is low or a system is
-   broken. Then a faint additive bloom over lit machines. Crew are drawn after, unlit, so they stay readable;
-   their shadows fall away from their room's light. Quality drops a tier on its own if frames run slow. ---- */
+   broken. Then a faint additive bloom over lit machines. Crew are drawn after, under the same light (crewart.js
+   kitLightAt / crewLit: the light map's value where they stand), with their shadows falling away from their room's light. Quality drops a tier on its own if frames run slow. ---- */
 const KIT_LIT = {tier: 2, ema: 0, slowT: 0};
 const SYS_RGB = {shields:[56,189,248], engines:[251,146,60], weapons:[255,176,80], oxygen:[70,220,200], medbay:[90,235,140], pilot:[120,190,255], sensors:[110,215,255], doors:[255,200,90], tele:[190,140,255], cloak:[160,140,255], drones:[255,200,90], lock:[255,80,100]};
 const KIT_BLOBS = {};
@@ -4687,7 +4844,8 @@ function navFromPainted(ship, sh, key){
       station: st ? {x: st.x*k, y: st.y*k, face: st.face, pose: st.pose} : null}; }
   const doors = (sh.doors || []).map((d, i) => ({a: d.a, b: d.b, vert: d.vert, rect: d.rect.map(v => v*k), src: i}));
   const hatches = (sh.hatches || []).map(h => ({a: h.a, b: h.b, x: h.x*k}));
-  return navBuild({key, painted: true, rooms, doors, hatches, margin: 0.12, step: 0.5, spot: 1.0, fight: 0.55});
+  const blocks = (sh.blocks || []).map(([bx, by, bw, bh]) => [bx*k, by*k, (bx + bw)*k, (by + bh)*k]); // furniture: nobody stands on a console
+  return navBuild({key, painted: true, rooms, doors, hatches, blocks, margin: 0.12, step: 0.5, spot: 1.0, fight: 0.55});
 }
 // a grid ship: its rooms are the grid rects, its doors the middle of every shared wall (crewGraph's rule)
 function navFromGrid(ship, key){
@@ -4721,7 +4879,7 @@ function navSees(nav, R, a, b){
 // ---- the graph
 function navBuild(spec){
   const nav = {key: spec.key, painted: spec.painted, m: spec.margin, fight: spec.fight, rooms: {}, nodes: [], adj: [], doors: [], hatches: [], warn: [],
-    block: spec.doors.map(d => [d.rect[0] - 0.05, d.rect[1] - 0.05, d.rect[0] + d.rect[2] + 0.05, d.rect[1] + d.rect[3] + 0.05])};
+    block: spec.doors.map(d => [d.rect[0] - 0.05, d.rect[1] - 0.05, d.rect[0] + d.rect[2] + 0.05, d.rect[1] + d.rect[3] + 0.05]).concat(spec.blocks || [])};
   const addNode = (room, x, y, kind, extra) => { const n = {i: nav.nodes.length, room, x, y, kind, ...(extra || {})}; nav.nodes.push(n); nav.adj.push([]); nav.rooms[room].nodes.push(n.i); return n; };
   const link = (a, b, w, extra) => { nav.adj[a.i].push({to: b.i, w, ...(extra || {})}); nav.adj[b.i].push({to: a.i, w, ...(extra || {})}); };
   for (const [id, r] of Object.entries(spec.rooms)){ const R = nav.rooms[id] = {id, poly: r.poly, walk: r.walk, station: r.station, nodes: [], spots: []};
@@ -5008,7 +5166,7 @@ function buildMapDeck(){
   if (!n) card = `<b>SECTOR ${R.sector} OF ${SECTORS}${R.arc ? " · " + esc(R.arc.sectors[R.sector-1].name.toUpperCase()) : ""}</b><span>Tap a beacon to scan it. Every jump costs 1 fuel and lets ${esc(threatName())} close in. Reach the green EXIT beacon.${hunted ? " Your hull reads weak on their scopes: hunters will come looking." : ""}</span>`;
   else if (n.id === R.pos) card = `<b>YOU ARE HERE · ${esc(planetOf(n.seed).toUpperCase())}</b><span>${n.probed ? "You've already probed this world." : "Send a probe down and see what the world gives you. Free, and once per beacon."}</span>`;
   else if (n.col <= R.threat && n.type !== "flagship") card = `<b><span class="tag" style="color:#ff3d5a">OVERRUN</span>${esc(String(pursuer().name || threatName()).toUpperCase())}</b><span>${({fleet:"Its vanguard holds this beacon. A hard fight and nothing worth salvaging.", swarm:"The swarm has nested here. Expect a fight against something that doesn't need a crew.", nova:"The shockfront has burned through here. No enemy, just fire. You'd have to outlast it.", void:"The dark has taken this beacon. No enemy, just cold. You'd have to outlast it."})[pursuer().kind] || ""}</span>`;
-  else if (n.type === "hazard") card = `<b><span class="tag" style="color:#ffc857">HAZARD</span>${esc(({asteroids:"ASTEROID FIELD", flare:"SOLAR STORM", ion:"ION STORM"})[n.hz] || "HAZARD")}</b><span>Dangerous, and rich if you're willing to sit in it. You can pass it by. ${esc(planetOf(n.seed))}.</span>`;
+  else if (n.type === "hazard") card = `<b><span class="tag" style="color:#ffc857">HAZARD</span>${esc(({asteroids:"ASTEROID FIELD", flare:"SOLAR STORM", ion:"ION STORM"})[n.hz] || "HAZARD")}</b><span>Dangerous, and rich if you're willing to sit in it. You can pass it by. Near a ${esc(planetOf(n.seed))}.</span>`;
   else if (n.visited) card = `<b>VISITED</b><span>Empty space now. Jumping here still costs fuel and time.</span>`;
   else if (n.col <= R.threat + 1 && n.type !== "flagship" && n.type !== "exit" && reachable().includes(n.id)) card = `<b><span class="tag" style="color:#ff9b5c">PURSUIT</span>${esc(String(pursuer().name || threatName()).toUpperCase())} WILL BE HERE FIRST</b><span>Jump here and you meet the pursuit, not what the scanners show. Every jump lets it close in.</span>`;
   else if (n.type === "hostile"){ const s = scout(n); card = `<b><span class="tag" style="color:${s.danger[1]}">${s.danger[0]}</span>${esc(s.e.name)}</b><span>${sizeRule(s.e).label} ship · Hull ${s.e.hull} · ${(n_ => `${n_} shield layer${n_ === 1 ? "" : "s"}`)(Math.floor((s.e.sys.shields ? s.e.sys.shields.level : 0)/MOD.rules.powerPerLayer))} · ${s.e.weapons.map(w => w.name).join(", ")}${s.e.sys.cloak ? " · cloak" : ""}${s.e.sys.tele ? " · boarders" : ""}${s.e.sys.lock ? " · warp lock" : ""}${s.e.drones.length ? " · drones" : ""} · salvage ${s.loot}${s.e.notes.length ? "<br>Scouts: " + esc(s.e.notes.join(" ")) : ""}</span>`; }
@@ -7510,7 +7668,21 @@ const DIAG = {on: hashFlag("debug"), n: 0, t0: 0, fps: 0, el: null,
       ` · ${this.fps} fps · ${S ? S.mode : "-"}${ua ? " · " + ua[0] : ""}` + (lastError ? `\nlast error: ${lastError}` : "");
   }
 };
-addEventListener("hashchange", () => { DIAG.on = hashFlag("debug"); if (!DIAG.on && DIAG.el){ DIAG.el.remove(); DIAG.el = null; } });
+addEventListener("hashchange", () => { DIAG.on = hashFlag("debug"); if (!DIAG.on && DIAG.el){ DIAG.el.remove(); DIAG.el = null; } debugBar(); });
+/* #debug testing controls, for reaching later sectors in a test run: FF runs fights 8x, NEXT SECTOR leaves the map's sector */
+DIAG.ff = false;
+function debugBar(){
+  let bar = $("dbgBar");
+  if (!DIAG.on){ if (bar) bar.remove(); DIAG.ff = false; return; }
+  if (bar) return;
+  bar = document.createElement("div"); bar.id = "dbgBar";
+  bar.style.cssText = "position:fixed;left:50%;top:2px;transform:translateX(-50%) scale(.6);transform-origin:top center;z-index:9999;display:flex;gap:4px;opacity:.7"; // top middle, small: never over PLAY, crew cards or beacons
+  bar.innerHTML = `<button class="btn" id="dbgFF">FF x8: OFF</button><button class="btn" id="dbgSector">NEXT SECTOR</button>`;
+  document.body.appendChild(bar);
+  $("dbgFF").addEventListener("click", () => { DIAG.ff = !DIAG.ff; $("dbgFF").textContent = `FF x8: ${DIAG.ff ? "ON" : "OFF"}`; });
+  $("dbgSector").addEventListener("click", () => { if (!R || !S || S.mode !== "map" || R.sector >= SECTORS) return; closeSheet(); nextSector(); });
+}
+debugBar();
 function boot(data){
   set3D(STAGE.ok, STAGE.why);
   loadArt();
